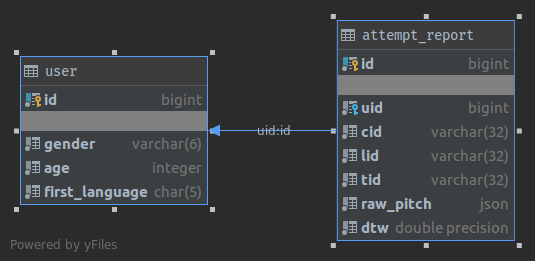
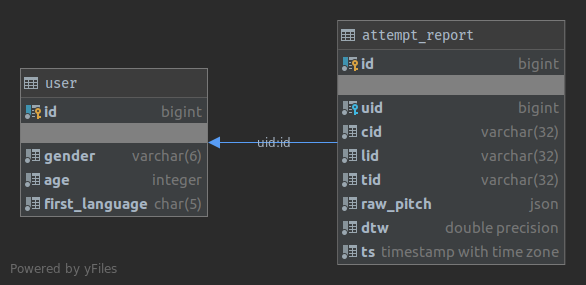
add ts column to DB + refactor code after @vaddya review.

diff --git a/pgclient/src/main/java/org/studyintonation/analytics/pgclient/PgClient.java b/pgclient/src/main/java/org/studyintonation/analytics/pgclient/PgClient.java
@@ -11,6 +11,7 @@ import org.jetbrains.annotations.NotNull;
 import reactor.core.publisher.Mono;
 
 import java.net.URI;
+import java.time.Instant;
 
 import static io.r2dbc.spi.ConnectionFactoryOptions.DATABASE;
 import static io.r2dbc.spi.ConnectionFactoryOptions.DRIVER;
@@ -74,24 +75,22 @@ public final class PgClient {
     }
 
     @NotNull
-    public Mono<Long> register(@NotNull final String gender,
-                               final int age,
-                               @NotNull final String firstLanguage) {
+    public Mono<Long> addAnonymousUser(@NotNull final String gender,
+                                       final int age,
+                                       @NotNull final String firstLanguage) {
         return pool.create()
-                .flatMap(connection -> {
-                    final var uid = Mono.from(connection
-                            .createStatement("INSERT INTO \"user\" (gender, age, first_language) VALUES ($1, $2, $3)")
-                            .bind("$1", gender)
-                            .bind("$2", age)
-                            .bind("$3", firstLanguage)
-                            .returnGeneratedValues("id")
-                            .execute())
-                            .flatMap(result -> Mono.from(result.map((row, __) -> row.get("id", Long.class))));
-
-                    return Mono.from(connection.close()).then(uid);
-                });
+                .flatMap(connection -> Mono.from(connection
+                        .createStatement("INSERT INTO \"user\" (gender, age, first_language) VALUES ($1, $2, $3)")
+                        .bind("$1", gender)
+                        .bind("$2", age)
+                        .bind("$3", firstLanguage)
+                        .returnGeneratedValues("id")
+                        .execute())
+                        .flatMap(result -> Mono.from(result.map((row, __) -> row.get("id", Long.class))))
+                        .doFinally(__ -> connection.close()));
     }
 
+    @NotNull
     public Mono<Boolean> addUserAttemptReport(final long uid,
                                               @NotNull final String cid,
                                               @NotNull final String lid,
@@ -99,19 +98,18 @@ public final class PgClient {
                                               @NotNull final String rawPitchJson,
                                               final float dtw) {
         return pool.create()
-                .flatMap(connection -> {
-                    final var success = Mono.from(connection
-                            .createStatement("INSERT INTO attempt_report (uid, cid, lid, tid, raw_pitch, dtw) VALUES ($1, $2, $3, $4, $5, $6)")
-                            .bind("$1", uid)
-                            .bind("$2", cid)
-                            .bind("$3", lid)
-                            .bind("$4", tid)
-                            .bind("$5", Json.of(rawPitchJson))
-                            .bind("$6", dtw)
-                            .execute())
-                            .flatMap(result -> Mono.from(result.getRowsUpdated()).map(updatedRowCount -> updatedRowCount == 1));
-
-                    return Mono.from(connection.close()).then(success);
-                });
+                .flatMap(connection -> Mono.from(connection
+                        .createStatement("INSERT INTO attempt_report (uid, cid, lid, tid, raw_pitch, dtw, ts) VALUES ($1, $2, $3, $4, $5, $6, $7)")
+                        .bind("$1", uid)
+                        .bind("$2", cid)
+                        .bind("$3", lid)
+                        .bind("$4", tid)
+                        .bind("$5", Json.of(rawPitchJson))
+                        .bind("$6", dtw)
+                        .bind("$7", Instant.now())
+                        .execute())
+                        .flatMap(result -> Mono.from(result.getRowsUpdated())
+                                .map(Integer.valueOf(1)::equals))
+                        .doFinally(__ -> connection.close()));
     }
 }

diff --git a/api/src/main/java/org/studyintonation/analytics/api/rest/Analytics.java b/api/src/main/java/org/studyintonation/analytics/api/rest/Analytics.java
@@ -5,7 +5,6 @@ import lombok.Getter;
 import lombok.RequiredArgsConstructor;
 import org.jetbrains.annotations.NotNull;
 import org.jetbrains.annotations.Nullable;
-import org.springframework.beans.factory.annotation.Autowired;
 import org.springframework.web.bind.annotation.PostMapping;
 import org.springframework.web.bind.annotation.RequestBody;
 import org.springframework.web.bind.annotation.RequestMapping;
@@ -16,29 +15,31 @@ import org.studyintonation.analytics.api.util.JsonEncoder;
 import org.studyintonation.analytics.pgclient.PgClient;
 import reactor.core.publisher.Mono;
 
-import static io.netty.handler.codec.http.HttpHeaders.Values.APPLICATION_JSON;
 import static org.springframework.http.HttpStatus.ACCEPTED;
+import static org.springframework.http.MediaType.APPLICATION_JSON_VALUE;
 
 @RestController
 @RequestMapping("/v0/analytics")
-@RequiredArgsConstructor(onConstructor = @__(@Autowired))
+@RequiredArgsConstructor
 public final class Analytics implements Api {
     @NotNull
     private final PgClient pgClient;
+    @NotNull
+    private final JsonEncoder jsonEncoder;
 
-    @PostMapping(path = "/sendAttemptReport", consumes = APPLICATION_JSON, produces = APPLICATION_JSON)
+    @PostMapping(path = "/sendAttemptReport", consumes = APPLICATION_JSON_VALUE, produces = APPLICATION_JSON_VALUE)
     @ResponseStatus(ACCEPTED)
     @NotNull
-    public Mono<? extends Response> sendAttemptReport(@RequestBody @NotNull final Mono<SendAttemptReportRequest> body) {
+    public Mono<SendAttemptReportResponse> sendAttemptReport(@RequestBody @NotNull final Mono<SendAttemptReportRequest> body) {
         return body
-                .map(SendAttemptReportRequest::validate)
+                .map(SendAttemptReportRequest::validated)
                 .flatMap(request -> pgClient
                         .addUserAttemptReport(
                                 request.uid,
                                 request.cid,
                                 request.lid,
                                 request.tid,
-                                JsonEncoder.asJson(request.rawPitch),
+                                jsonEncoder.asJson(request.rawPitch),
                                 request.dtw
                         )
                 )
@@ -67,10 +68,10 @@ public final class Analytics implements Api {
             private final int sampleRate;
         }
 
-        @NotNull
         @Override
-        public SendAttemptReportRequest validate() {
-            return (SendAttemptReportRequest) Request.super.validate();
+        @NotNull
+        public SendAttemptReportRequest validated() {
+            return (SendAttemptReportRequest) Request.super.validated();
         }
     }
 

diff --git a/api/src/main/java/org/studyintonation/analytics/api/rest/Auth.java b/api/src/main/java/org/studyintonation/analytics/api/rest/Auth.java
@@ -4,7 +4,6 @@ import com.fasterxml.jackson.annotation.JsonCreator;
 import lombok.RequiredArgsConstructor;
 import org.jetbrains.annotations.NotNull;
 import org.jetbrains.annotations.Nullable;
-import org.springframework.beans.factory.annotation.Autowired;
 import org.springframework.web.bind.annotation.PostMapping;
 import org.springframework.web.bind.annotation.RequestBody;
 import org.springframework.web.bind.annotation.RequestMapping;
@@ -16,23 +15,23 @@ import reactor.core.publisher.Mono;
 
 import java.util.Locale;
 
-import static io.netty.handler.codec.http.HttpHeaders.Values.APPLICATION_JSON;
 import static org.springframework.http.HttpStatus.ACCEPTED;
+import static org.springframework.http.MediaType.APPLICATION_JSON_VALUE;
 
 @RestController
 @RequestMapping("/v0/auth")
-@RequiredArgsConstructor(onConstructor = @__(@Autowired))
+@RequiredArgsConstructor
 public final class Auth implements Api {
     @NotNull
     private final PgClient pgClient;
 
-    @PostMapping(path = "/register", consumes = APPLICATION_JSON, produces = APPLICATION_JSON)
+    @PostMapping(path = "/register", consumes = APPLICATION_JSON_VALUE, produces = APPLICATION_JSON_VALUE)
     @ResponseStatus(ACCEPTED)
     @NotNull
-    public Mono<? extends Response> register(@RequestBody @NotNull final Mono<RegisterRequest> body) {
+    public Mono<RegisterResponse> register(@RequestBody @NotNull final Mono<RegisterRequest> body) {
         return body
-                .map(RegisterRequest::validate)
-                .flatMap(it -> pgClient.register(it.gender.toString(), it.age, it.firstLanguage.toLanguageTag()))
+                .map(RegisterRequest::validated)
+                .flatMap(it -> pgClient.addAnonymousUser(it.gender.toString(), it.age, it.firstLanguage.toLanguageTag()))
                 .map(RegisterResponse::ok)
                 .onErrorReturn(Exceptions::logging, RegisterResponse.ERROR);
     }
@@ -45,10 +44,10 @@ public final class Auth implements Api {
         @Nullable
         private final Locale firstLanguage;
 
-        @NotNull
         @Override
-        public RegisterRequest validate() {
-            return (RegisterRequest) Request.super.validate();
+        @NotNull
+        public RegisterRequest validated() {
+            return (RegisterRequest) Request.super.validated();
         }
 
         private enum Gender {

diff --git a/api/src/main/java/org/studyintonation/analytics/api/config/AnalyticsAppConfiguration.java b/api/src/main/java/org/studyintonation/analytics/api/config/AnalyticsAppConfiguration.java
@@ -1,29 +1,37 @@
 package org.studyintonation.analytics.api.config;
 
+import com.fasterxml.jackson.databind.ObjectMapper;
 import com.typesafe.config.Config;
 import com.typesafe.config.ConfigFactory;
 import org.jetbrains.annotations.NotNull;
 import org.springframework.boot.SpringBootConfiguration;
 import org.springframework.context.annotation.Bean;
+import org.studyintonation.analytics.api.util.JsonEncoder;
 import org.studyintonation.analytics.pgclient.PgClient;
 
 @SpringBootConfiguration
 public class AnalyticsAppConfiguration {
-    @NotNull
     @Bean
+    @NotNull
     public Config appConfig() {
         return ConfigFactory.load("AnalyticsApp.conf");
     }
 
-    @NotNull
     @Bean
+    @NotNull
     public Config pgClientConfig(@NotNull final Config appConfig) {
         return appConfig.getConfig("analyticsApp.pgclient");
     }
 
-    @NotNull
     @Bean
+    @NotNull
     public PgClient pgClient(@NotNull final Config pgClientConfig) {
         return new PgClient(pgClientConfig);
+    }
+
+    @Bean
+    @NotNull
+    public JsonEncoder jsonEncoder(@NotNull final ObjectMapper objectMapper) {
+        return new JsonEncoder(objectMapper);
     }
 }

diff --git a/api/src/main/java/org/studyintonation/analytics/api/util/JsonEncoder.java b/api/src/main/java/org/studyintonation/analytics/api/util/JsonEncoder.java
@@ -1,22 +1,17 @@
 package org.studyintonation.analytics.api.util;
 
-import com.fasterxml.jackson.core.JsonProcessingException;
 import com.fasterxml.jackson.databind.ObjectMapper;
+import lombok.RequiredArgsConstructor;
+import lombok.SneakyThrows;
 import org.jetbrains.annotations.NotNull;
 
+@RequiredArgsConstructor
 public final class JsonEncoder {
-    private static final ObjectMapper OBJECT_MAPPER = new ObjectMapper();
+    private final ObjectMapper objectMapper;
 
-    private JsonEncoder() {
-        throw new RuntimeException("JsonEncoder can not be instantiated");
-    }
-
+    @SneakyThrows
     @NotNull
-    public static String asJson(Object o) {
-        try {
-            return OBJECT_MAPPER.writeValueAsString(o);
-        } catch (JsonProcessingException e) {
-            throw Exceptions.uncheckedWrappingChecked(e);
-        }
+    public String asJson(@NotNull final Object o) {
+        return objectMapper.writeValueAsString(o);
     }
 }

diff --git a/api/src/main/java/org/studyintonation/analytics/api/util/Exceptions.java b/api/src/main/java/org/studyintonation/analytics/api/util/Exceptions.java
@@ -9,17 +9,6 @@ public final class Exceptions {
         throw new RuntimeException("Exceptions can not be instantiated");
     }
 
-    @NotNull
-    public static UncheckedException uncheckedWrappingChecked(@NotNull final Throwable throwable) {
-        return new UncheckedException(throwable);
-    }
-
-    public static final class UncheckedException extends RuntimeException {
-        public UncheckedException(@NotNull final Throwable throwable) {
-            super(throwable);
-        }
-    }
-
     public static <T extends Throwable> boolean logging(@NotNull final T throwable) {
         log.info("Error occurred", throwable);
         return true;

diff --git a/api/src/main/java/org/studyintonation/analytics/api/rest/Api.java b/api/src/main/java/org/studyintonation/analytics/api/rest/Api.java
@@ -39,7 +39,7 @@ public interface Api {
         }
 
         @NotNull
-        default Request validate() {
+        default Request validated() {
             if (isValid()) {
                 return this;
             }
@@ -53,9 +53,11 @@ public interface Api {
             }
 
             private static final class Holder {
+                @NotNull
                 public static final InvalidError OUTER_INSTANCE = new InvalidError();
             }
 
+            @NotNull
             public static InvalidError instance() {
                 return Holder.OUTER_INSTANCE;
             }

diff --git a/api/src/main/java/org/studyintonation/analytics/api/rest/Status.java b/api/src/main/java/org/studyintonation/analytics/api/rest/Status.java
@@ -14,12 +14,13 @@ import static org.springframework.http.MediaType.APPLICATION_JSON_VALUE;
 @RestController
 @RequestMapping("/v0")
 public final class Status implements Api {
+    @NotNull
     private static final Mono<StatusResponse> STATUS_ONLINE_RESPONSE = Mono.just(StatusResponse.ONLINE);
 
     @GetMapping(path = "/status", produces = APPLICATION_JSON_VALUE)
     @ResponseStatus(OK)
     @NotNull
-    public Mono<? extends Response> status() {
+    public Mono<StatusResponse> status() {
         return STATUS_ONLINE_RESPONSE;
     }
 

diff --git a/README.md b/README.md
@@ -43,13 +43,14 @@ Response:
 `Content-Type: application/json`
 
 Success:
-
 ```
 {
     "status": "OK",
     "id": 1
 }
 ```
+
+`id` (long) - user id
 
 Failure:
 ```
@@ -78,7 +79,7 @@ Body:
 	"dtw": 1.2
 }
 ```
-`uid` (int) - user id obtained using `/v0/auth/register`
+`uid` (long) - user id obtained using `/v0/auth/register`
 
 `cid`, `lid`, `tid` (String) - course, lesson and task ids
 
@@ -88,14 +89,14 @@ Response:
 
 `Content-Type: application/json`
 
+Success:
 ```
 {
     "status": "OK"
 }
 ```
 
-or
-
+Failure:
 ```
 {
     "status": "ERROR"
